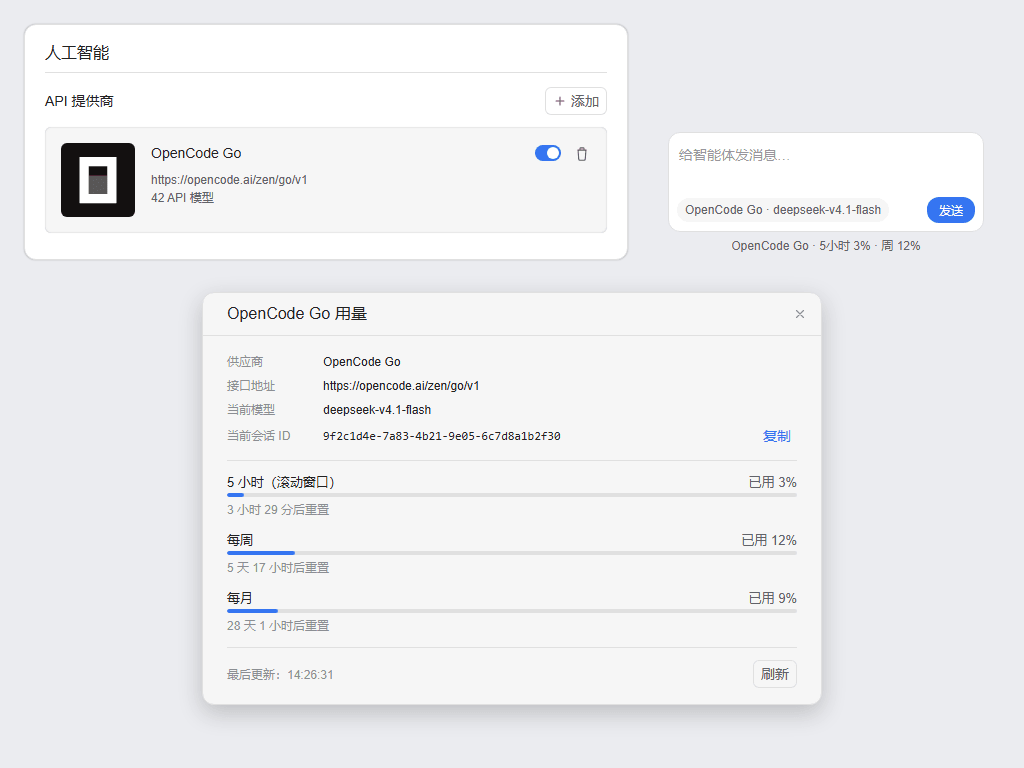
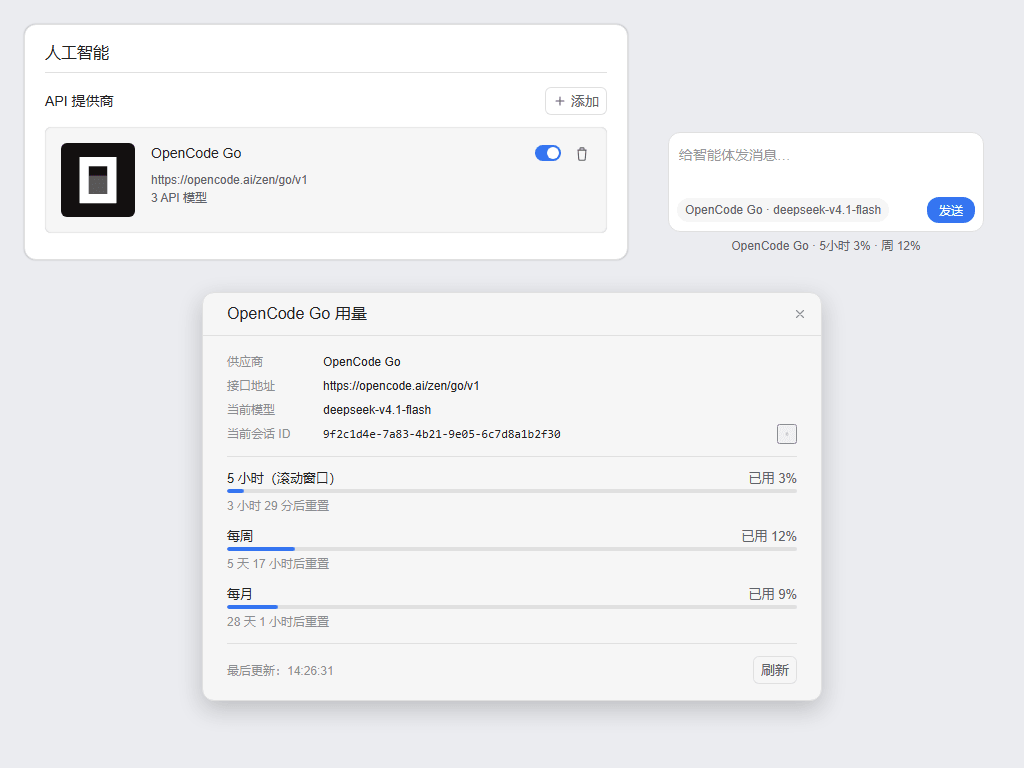
docs(preview): keep the marketplace preview in step with the dialog
The mock still drew a text button for the session id copy control; SiYuan's
own icon-only button is there now. The model row already showed the upstream
model name, and the provider card no longer claims dozens of models the
plugin itself would have fetched. Regenerated assets/preview.png.

diff --git a/assets/preview.html b/assets/preview.html
@@ -85,6 +85,10 @@ body { width: 1024px; height: 768px; margin: 0; overflow: hidden; background: va
 .b3-dialog__close { position: absolute; top: 4px; right: 4px; height: 18px; width: 18px; padding: 8px; opacity: .68; color: var(--b3-theme-on-surface); display: inline-flex; align-items: center; justify-content: center; }
 .b3-dialog__content { padding: 16px 24px; }
 
+/* 会话 ID 的复制按钮：思源原生的图标按钮（`block__icon` + `#iconCopy`），只留图标与悬浮提示 */
+.opencode-go-dialog__row .block__icon { display: inline-flex; align-items: center; justify-content: center; flex: none; height: 20px; width: 20px; cursor: pointer; color: var(--b3-theme-on-surface); opacity: .78; }
+.opencode-go-dialog__row .block__icon svg { height: 14px; width: 14px; }
+
 .opencode-go-dialog__meta { display: flex; flex-direction: column; gap: 4px; padding-bottom: 12px; border-bottom: 1px solid var(--b3-border-color); }
 .opencode-go-dialog__row { display: flex; align-items: center; gap: 8px; font-size: 12px; line-height: 20px; }
 .opencode-go-dialog__label { flex: none; width: 88px; color: var(--b3-theme-on-surface); opacity: .7; }
@@ -102,7 +106,7 @@ body { width: 1024px; height: 768px; margin: 0; overflow: hidden; background: va
 </head>
 <body>
 
-<!-- 第一块：思源原生的「设置 - 人工智能」供应商卡片，插件注入的 OpenCode Go 就在列表里，可原生编辑 -->
+<!-- 第一块：思源原生的「设置 - 人工智能」供应商卡片，插件按需创建的 OpenCode Go 就在列表里，可原生编辑 -->
 <section class="panel panel--settings">
   <div class="panel__title">人工智能</div>
   <div class="config-item">
@@ -118,7 +122,7 @@ body { width: 1024px; height: 768px; margin: 0; overflow: hidden; background: va
         <div class="b3-card__img"><img src="provider-icon.svg" alt="OpenCode Go"></div>
         <div class="b3-card__info b3-card__info--left">
           <div class="config-name fn__ellipsis">OpenCode Go</div>
-          <div class="b3-card__desc">https://opencode.ai/zen/go/v1<br>42 API 模型</div>
+          <div class="b3-card__desc">https://opencode.ai/zen/go/v1<br>3 API 模型</div>
         </div>
         <div class="b3-card__actions">
           <input class="b3-switch" type="checkbox" checked aria-label="启用">
@@ -156,7 +160,7 @@ body { width: 1024px; height: 768px; margin: 0; overflow: hidden; background: va
       <div class="opencode-go-dialog__row"><span class="opencode-go-dialog__label">供应商</span><span>OpenCode Go</span></div>
       <div class="opencode-go-dialog__row"><span class="opencode-go-dialog__label">接口地址</span><span>https://opencode.ai/zen/go/v1</span></div>
       <div class="opencode-go-dialog__row"><span class="opencode-go-dialog__label">当前模型</span><span>deepseek-v4.1-flash</span></div>
-      <div class="opencode-go-dialog__row"><span class="opencode-go-dialog__label">当前会话 ID</span><code class="opencode-go-dialog__session">9f2c1d4e-7a83-4b21-9e05-6c7d8a1b2f30</code><button class="b3-button b3-button--text" type="button">复制</button></div>
+      <div class="opencode-go-dialog__row"><span class="opencode-go-dialog__label">当前会话 ID</span><code class="opencode-go-dialog__session">9f2c1d4e-7a83-4b21-9e05-6c7d8a1b2f30</code><button class="block__icon" type="button" aria-label="复制" data-position="north"><svg viewBox="0 0 32 32" aria-hidden="true"><rect x="11.5" y="10.5" width="13" height="16" rx="2.5" fill="none" stroke="currentColor" stroke-width="2.2"/><path d="M20.5 6.5H12a2.5 2.5 0 0 0-2.5 2.5v13" fill="none" stroke="currentColor" stroke-width="2.2" stroke-linecap="round"/></svg></button></div>
     </div>
     <div class="opencode-go-dialog__windows">
       <div class="opencode-go-dialog__window">
